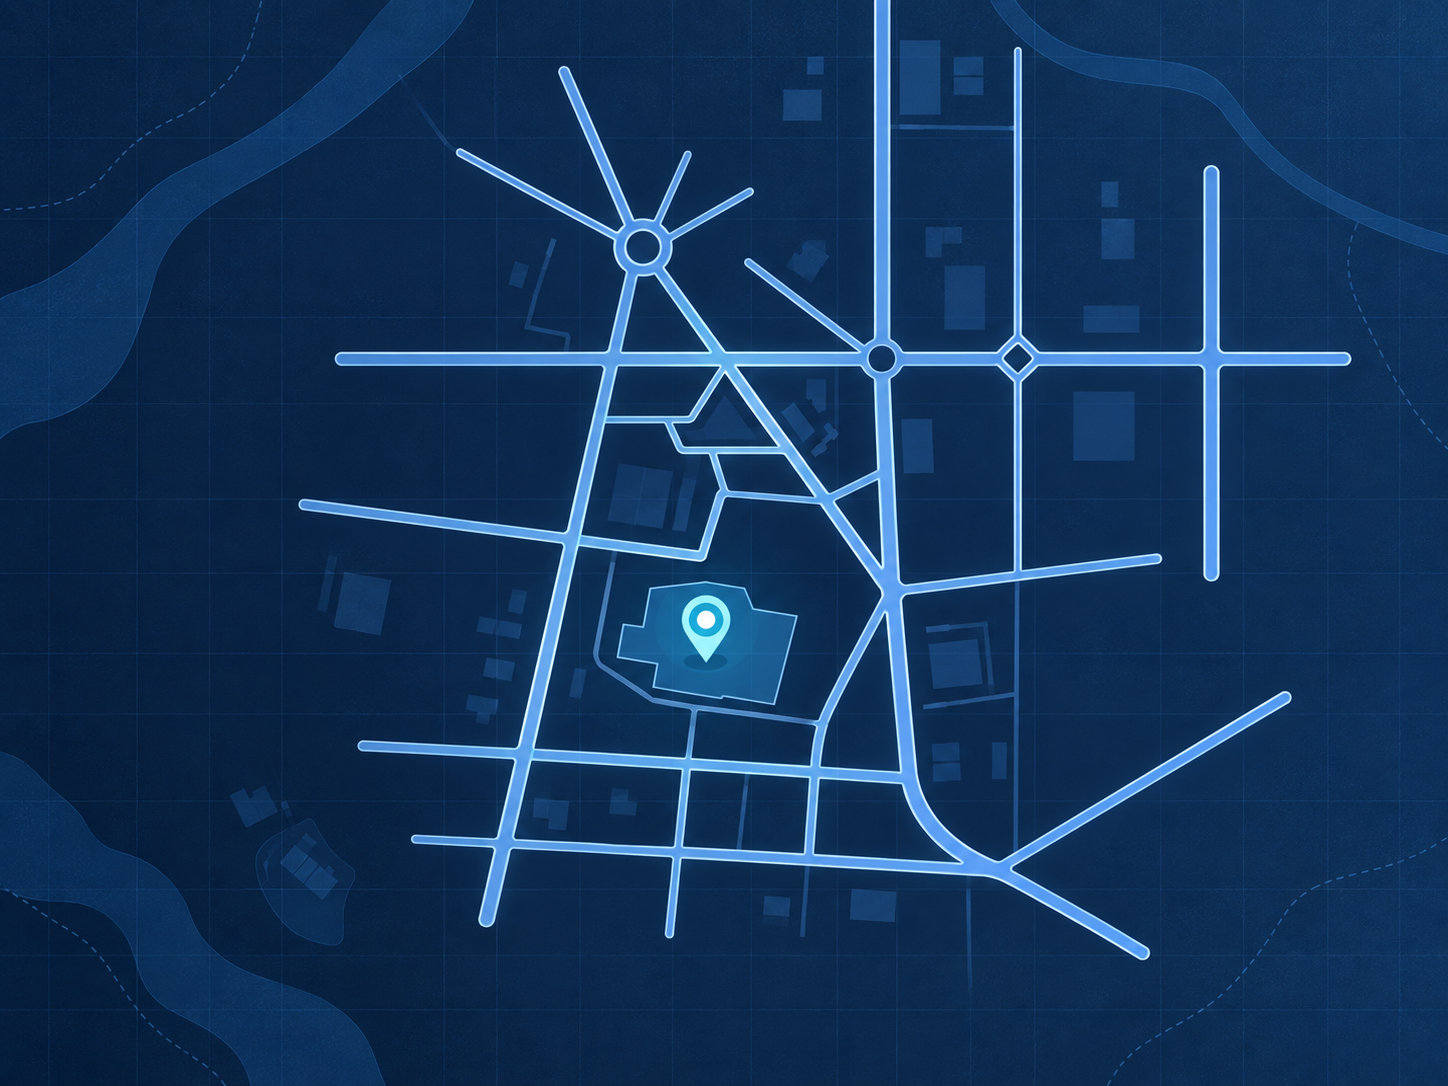
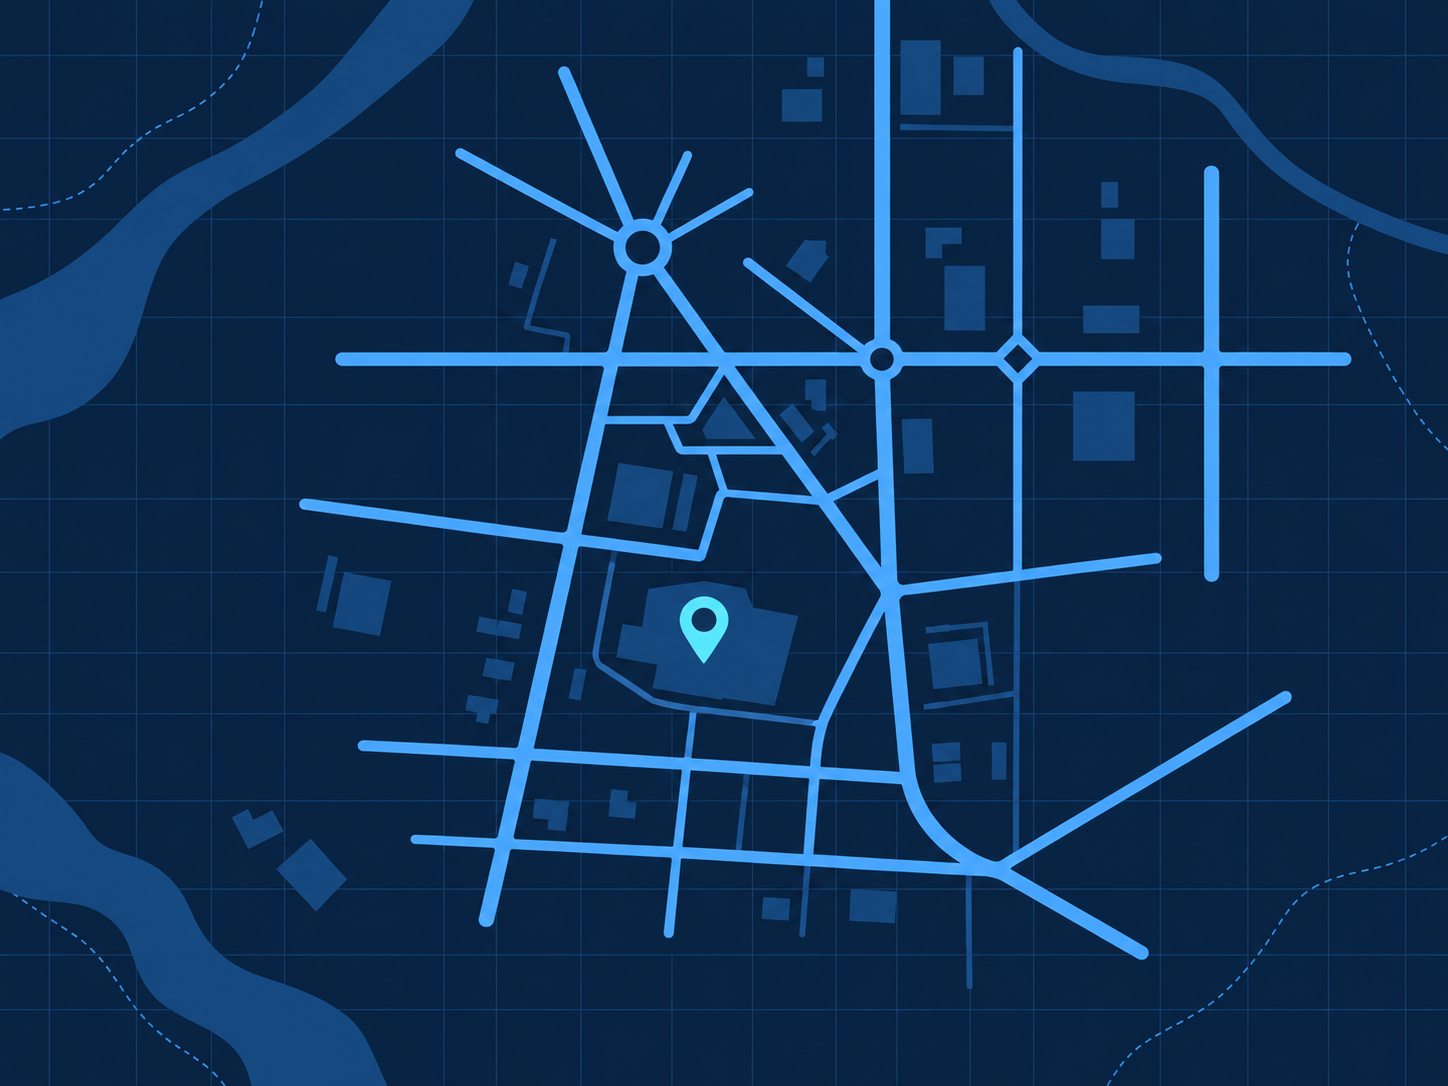
Flatten venue map illustrations and captions

diff --git a/release/styles.css b/release/styles.css
@@ -393,7 +393,7 @@ button:disabled, button[aria-disabled="true"] { cursor: not-allowed; opacity: 0.
 .venue-artwork__label--men { top: 72%; left: 86.4%; font-family: var(--font-body); }
 .venue-artwork__label--checkin { top: 85.5%; left: 61%; font-family: var(--font-body); }
 .venue-artwork__label--entrance { top: 95%; left: 61.5%; font-family: var(--font-body); }
-.venue-figure figcaption { padding: var(--space-sm) var(--space-md); color: var(--color-muted); font-family: var(--font-mono); font-size: var(--text-xs); }
+.venue-figure figcaption { padding: var(--space-sm) var(--space-md); color: var(--color-muted); font-family: var(--font-mono); font-size: var(--text-xs); text-align: center; }
 .venue-map-link { display: inline-flex; align-items: center; gap: var(--space-sm); min-height: 2.75rem; margin-top: var(--space-md); padding: 0.65rem 0.9rem; border: var(--rule-thin) solid var(--color-line-strong); border-radius: var(--radius-sm); background: linear-gradient(135deg, var(--color-glass-highlight), transparent 58%), var(--color-glass-panel); box-shadow: inset 0 1px 0 var(--color-glass-highlight), 0 0.5rem 1.25rem var(--color-glass-shadow); color: var(--color-muted); font-family: var(--font-body); font-size: var(--text-sm); font-weight: 600; transition: color var(--dur-fast) var(--ease-out), border-color var(--dur-fast) var(--ease-out), background-color var(--dur-fast) var(--ease-out), transform var(--dur-fast) var(--ease-out); }
 .venue-map-link:focus-visible { border-color: var(--color-accent); background: linear-gradient(135deg, var(--color-accent-soft), transparent 62%), var(--color-glass-panel); color: var(--color-ink); transform: translateY(-0.12rem); }
 .venue-map-link:active { transform: scale(0.96); }
@@ -675,8 +675,7 @@ button:disabled, button[aria-disabled="true"] { cursor: not-allowed; opacity: 0.
   backdrop-filter: blur(1.25rem) saturate(1.2) brightness(1.04);
 }
 
-#view-home .hero__meta-card::before,
-#view-home .venue-figure::before {
+#view-home .hero__meta-card::before {
   position: absolute;
   top: -1px;
   left: var(--space-lg);
@@ -705,11 +704,6 @@ button:disabled, button[aria-disabled="true"] { cursor: not-allowed; opacity: 0.
   border-radius: 0.45rem;
   background: linear-gradient(135deg, var(--color-glass-highlight), transparent 36%), var(--color-glass-panel);
   box-shadow: inset 0 1px 0 var(--color-glass-highlight), inset 0 -1px 0 var(--color-glass-rim), 0 1rem 2.5rem var(--color-glass-shadow);
-}
-
-#view-home .venue-figure::before {
-  z-index: 1;
-  left: var(--space-md);
 }
 
 #view-home .venue-figure figcaption {
@@ -1032,23 +1026,6 @@ body .site-footer {
 
 #view-home .venue-figure {
   box-shadow: inset 0 1px 0 var(--color-glass-highlight), inset 0 -1px 0 var(--color-glass-rim), 0 1.2rem 3rem var(--color-glass-shadow);
-}
-
-#view-home .venue-figure::after {
-  position: absolute;
-  top: var(--space-md);
-  right: var(--space-md);
-  width: 2.5rem;
-  height: 0.75rem;
-  content: "";
-  border: var(--rule-thin) solid var(--color-signal-line);
-  background: linear-gradient(90deg, var(--color-signal-block-b), transparent);
-  opacity: 0.72;
-  pointer-events: none;
-}
-
-#view-home .venue-figure:nth-child(2)::after {
-  background: linear-gradient(90deg, var(--color-signal-block-c), transparent);
 }
 
 #view-home .transport-grid--compact {

diff --git a/styles.css b/styles.css
@@ -393,7 +393,7 @@ button:disabled, button[aria-disabled="true"] { cursor: not-allowed; opacity: 0.
 .venue-artwork__label--men { top: 72%; left: 86.4%; font-family: var(--font-body); }
 .venue-artwork__label--checkin { top: 85.5%; left: 61%; font-family: var(--font-body); }
 .venue-artwork__label--entrance { top: 95%; left: 61.5%; font-family: var(--font-body); }
-.venue-figure figcaption { padding: var(--space-sm) var(--space-md); color: var(--color-muted); font-family: var(--font-mono); font-size: var(--text-xs); }
+.venue-figure figcaption { padding: var(--space-sm) var(--space-md); color: var(--color-muted); font-family: var(--font-mono); font-size: var(--text-xs); text-align: center; }
 .venue-map-link { display: inline-flex; align-items: center; gap: var(--space-sm); min-height: 2.75rem; margin-top: var(--space-md); padding: 0.65rem 0.9rem; border: var(--rule-thin) solid var(--color-line-strong); border-radius: var(--radius-sm); background: linear-gradient(135deg, var(--color-glass-highlight), transparent 58%), var(--color-glass-panel); box-shadow: inset 0 1px 0 var(--color-glass-highlight), 0 0.5rem 1.25rem var(--color-glass-shadow); color: var(--color-muted); font-family: var(--font-body); font-size: var(--text-sm); font-weight: 600; transition: color var(--dur-fast) var(--ease-out), border-color var(--dur-fast) var(--ease-out), background-color var(--dur-fast) var(--ease-out), transform var(--dur-fast) var(--ease-out); }
 .venue-map-link:focus-visible { border-color: var(--color-accent); background: linear-gradient(135deg, var(--color-accent-soft), transparent 62%), var(--color-glass-panel); color: var(--color-ink); transform: translateY(-0.12rem); }
 .venue-map-link:active { transform: scale(0.96); }
@@ -675,8 +675,7 @@ button:disabled, button[aria-disabled="true"] { cursor: not-allowed; opacity: 0.
   backdrop-filter: blur(1.25rem) saturate(1.2) brightness(1.04);
 }
 
-#view-home .hero__meta-card::before,
-#view-home .venue-figure::before {
+#view-home .hero__meta-card::before {
   position: absolute;
   top: -1px;
   left: var(--space-lg);
@@ -705,11 +704,6 @@ button:disabled, button[aria-disabled="true"] { cursor: not-allowed; opacity: 0.
   border-radius: 0.45rem;
   background: linear-gradient(135deg, var(--color-glass-highlight), transparent 36%), var(--color-glass-panel);
   box-shadow: inset 0 1px 0 var(--color-glass-highlight), inset 0 -1px 0 var(--color-glass-rim), 0 1rem 2.5rem var(--color-glass-shadow);
-}
-
-#view-home .venue-figure::before {
-  z-index: 1;
-  left: var(--space-md);
 }
 
 #view-home .venue-figure figcaption {
@@ -1032,23 +1026,6 @@ body .site-footer {
 
 #view-home .venue-figure {
   box-shadow: inset 0 1px 0 var(--color-glass-highlight), inset 0 -1px 0 var(--color-glass-rim), 0 1.2rem 3rem var(--color-glass-shadow);
-}
-
-#view-home .venue-figure::after {
-  position: absolute;
-  top: var(--space-md);
-  right: var(--space-md);
-  width: 2.5rem;
-  height: 0.75rem;
-  content: "";
-  border: var(--rule-thin) solid var(--color-signal-line);
-  background: linear-gradient(90deg, var(--color-signal-block-b), transparent);
-  opacity: 0.72;
-  pointer-events: none;
-}
-
-#view-home .venue-figure:nth-child(2)::after {
-  background: linear-gradient(90deg, var(--color-signal-block-c), transparent);
 }
 
 #view-home .transport-grid--compact {

diff --git a/index.html b/index.html
@@ -7,7 +7,7 @@
     <meta name="description" content="NUTN CSIE 116｜國立臺南大學資訊工程學系 116 級畢業專題成果展。" />
     <title>NUTN CSIE 116｜116 級畢業專題成果展</title>
     <link rel="stylesheet" href="tokens.css?v=1.1.3" />
-  <link rel="stylesheet" href="styles.css?v=1.1.19" />
+  <link rel="stylesheet" href="styles.css?v=1.1.20" />
   </head>
   <body>
     <div class="site-backdrop" data-site-backdrop aria-hidden="true">
@@ -108,14 +108,14 @@
           <div class="venue-grid">
             <figure class="venue-figure" data-card-light>
               <div class="venue-artwork venue-artwork--campus">
-                <img src="assets/images/campus-map-2026.png" alt="以藍色道路網絡與地標標示國立臺南大學府城校區位置的示意圖" loading="lazy" />
+                <img src="assets/images/campus-map-2026.png?v=2" alt="以藍色道路網絡與地標標示國立臺南大學府城校區位置的示意圖" loading="lazy" />
                 <div class="venue-artwork__callout" aria-hidden="true"><span class="venue-artwork__pin"></span><strong>國立臺南大學</strong><small>樹林街二段 33 號</small></div>
               </div>
               <figcaption>國立臺南大學校址示意圖</figcaption>
             </figure>
             <figure class="venue-figure" data-card-light>
               <div class="venue-artwork venue-artwork--floorplan">
-                <img src="assets/images/exhibition-floorplan-2026.png" alt="文薈樓地下一樓畢業專題展場示意圖，包含 JB104 至 JB101、JB106、JB110、JB109、洗手間、簽到桌與入口" loading="lazy" />
+                <img src="assets/images/exhibition-floorplan-2026.png?v=2" alt="文薈樓地下一樓畢業專題展場示意圖，包含 JB104 至 JB101、JB106、JB110、JB109、洗手間、簽到桌與入口" loading="lazy" />
                 <span class="venue-artwork__label venue-artwork__label--jb104" aria-hidden="true">JB104</span>
                 <span class="venue-artwork__label venue-artwork__label--jb103" aria-hidden="true">JB103</span>
                 <span class="venue-artwork__label venue-artwork__label--jb102" aria-hidden="true">JB102</span>

diff --git a/release/index.html b/release/index.html
@@ -7,7 +7,7 @@
     <meta name="description" content="NUTN CSIE 116｜國立臺南大學資訊工程學系 116 級畢業專題成果展。" />
     <title>NUTN CSIE 116｜116 級畢業專題成果展</title>
     <link rel="stylesheet" href="tokens.css?v=1.1.3" />
-  <link rel="stylesheet" href="styles.css?v=1.1.19" />
+  <link rel="stylesheet" href="styles.css?v=1.1.20" />
   </head>
   <body>
     <div class="site-backdrop" data-site-backdrop aria-hidden="true">
@@ -108,14 +108,14 @@
           <div class="venue-grid">
             <figure class="venue-figure" data-card-light>
               <div class="venue-artwork venue-artwork--campus">
-                <img src="assets/images/campus-map-2026.png" alt="以藍色道路網絡與地標標示國立臺南大學府城校區位置的示意圖" loading="lazy" />
+                <img src="assets/images/campus-map-2026.png?v=2" alt="以藍色道路網絡與地標標示國立臺南大學府城校區位置的示意圖" loading="lazy" />
                 <div class="venue-artwork__callout" aria-hidden="true"><span class="venue-artwork__pin"></span><strong>國立臺南大學</strong><small>樹林街二段 33 號</small></div>
               </div>
               <figcaption>國立臺南大學校址示意圖</figcaption>
             </figure>
             <figure class="venue-figure" data-card-light>
               <div class="venue-artwork venue-artwork--floorplan">
-                <img src="assets/images/exhibition-floorplan-2026.png" alt="文薈樓地下一樓畢業專題展場示意圖，包含 JB104 至 JB101、JB106、JB110、JB109、洗手間、簽到桌與入口" loading="lazy" />
+                <img src="assets/images/exhibition-floorplan-2026.png?v=2" alt="文薈樓地下一樓畢業專題展場示意圖，包含 JB104 至 JB101、JB106、JB110、JB109、洗手間、簽到桌與入口" loading="lazy" />
                 <span class="venue-artwork__label venue-artwork__label--jb104" aria-hidden="true">JB104</span>
                 <span class="venue-artwork__label venue-artwork__label--jb103" aria-hidden="true">JB103</span>
                 <span class="venue-artwork__label venue-artwork__label--jb102" aria-hidden="true">JB102</span>
